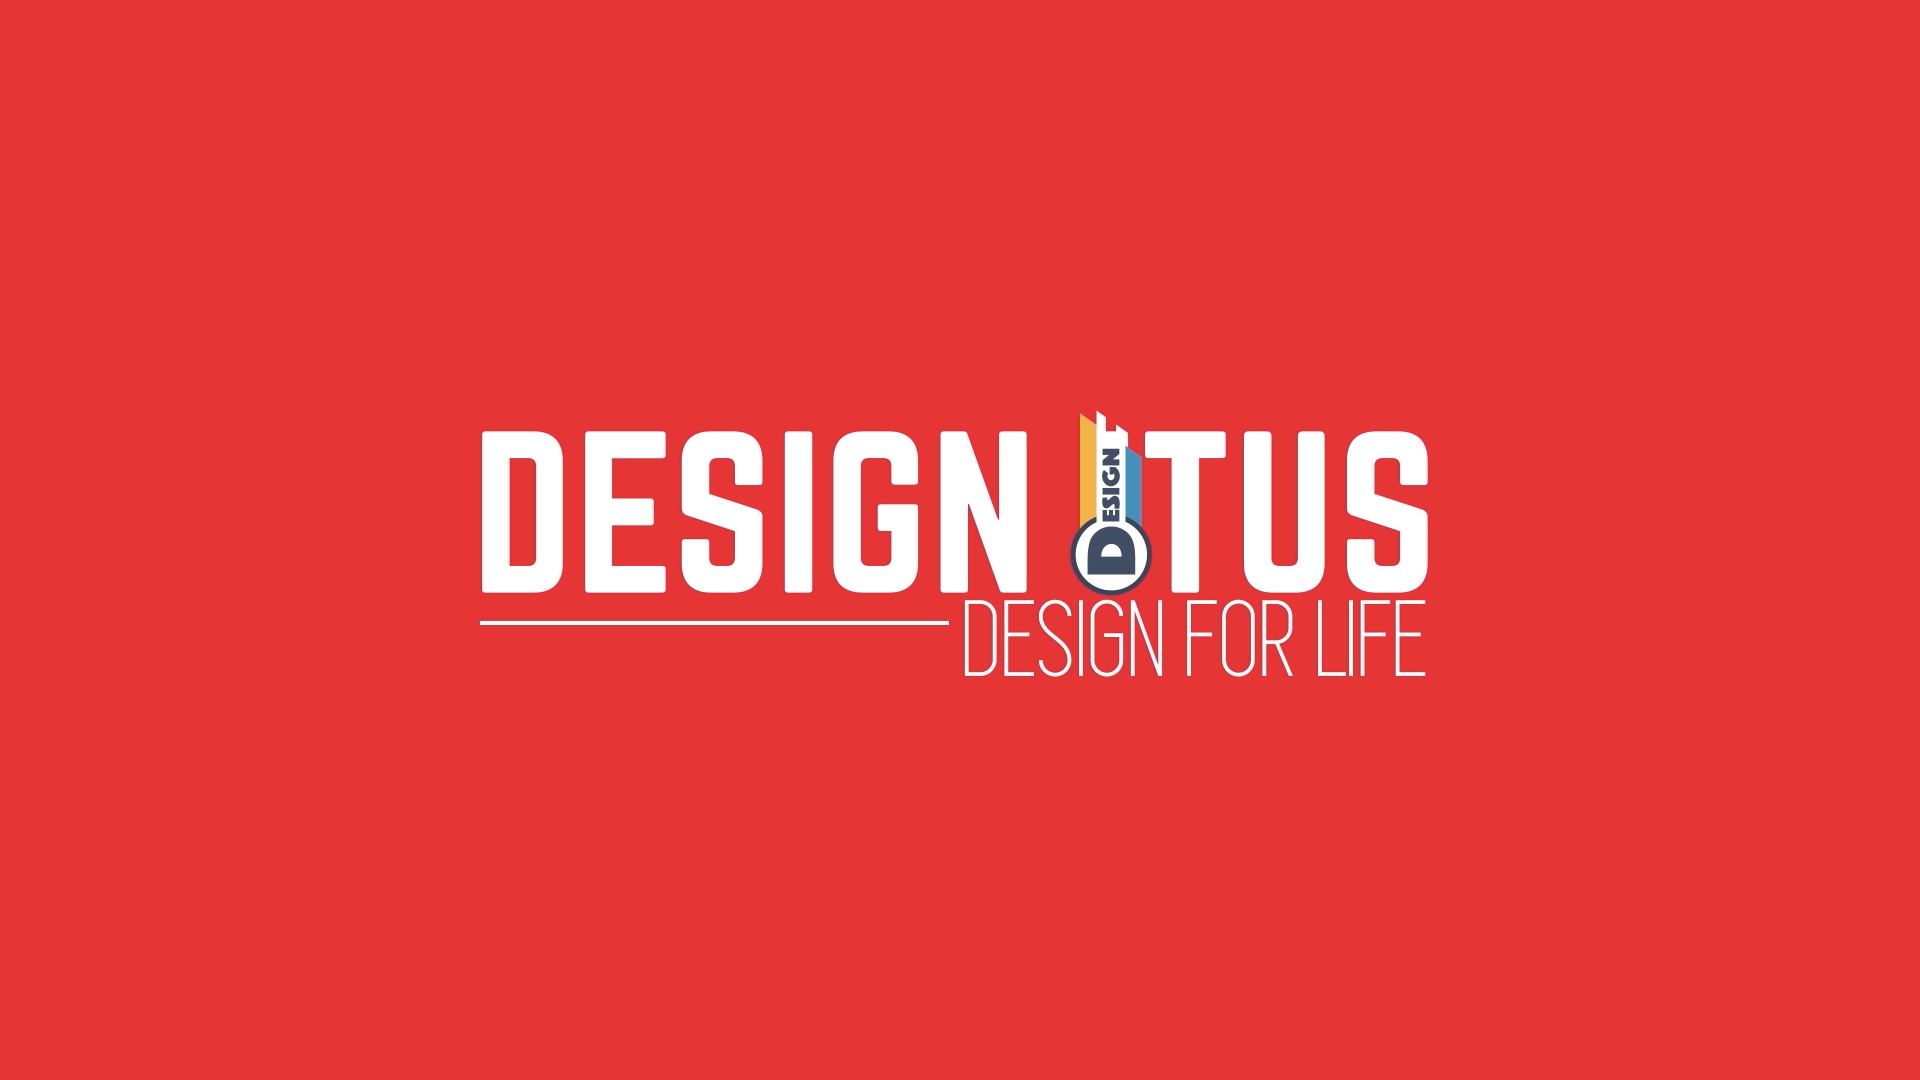
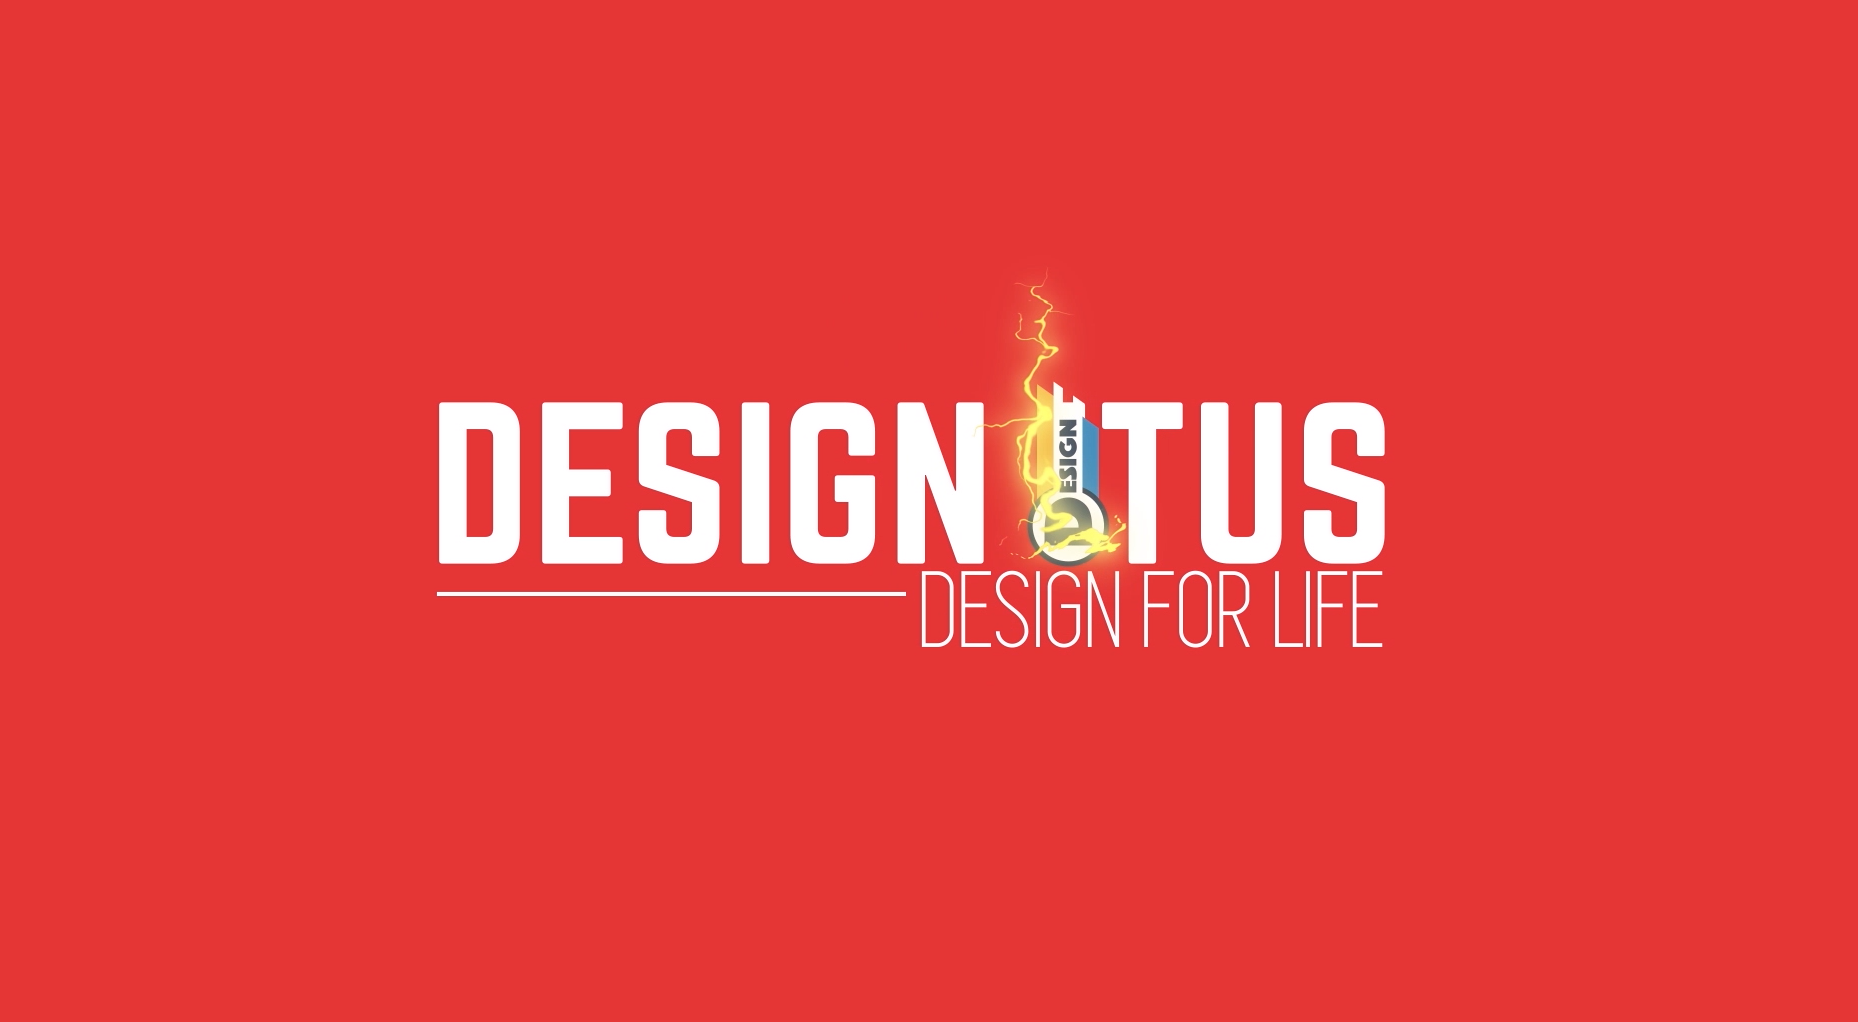
Update

Changed region(s): [[0.2185, 0.273, 0.7492, 0.637]]

diff --git a/index.html b/index.html
@@ -57,7 +57,7 @@
             <div class="t3d">
                 <!-- The header rectangle -->
                 <div class="header-rectangle">
-                    <img src="assets/VideoPreview.png" width="100%">
+                    <img src="assets/VideoPreview.gif" width="100%">
                 </div>
                 <!-- Header -->
                 <div class="row" style="padding-top: 100px;">
@@ -69,8 +69,8 @@
                             <div class="big-title" style="float: left;">DRUG</div>
                             <div class="big-title" style="color: var(--theme-color-2);">.</div>
                         </div><br>
-                        <div class="sub-title">CROP YOUR BRAIN AND</div>
-                        <div class="sub-title">MAKE IT MORE BEAUTIFUL</div>
+                        <div class="sub-title" style="letter-spacing: 6.0;">CROP YOUR BRAIN AND</div>
+                        <div class="sub-title" style="letter-spacing: 4.3;">MAKE IT MORE BEAUTIFUL</div>
                     </div>
 
                     <div class="col-2 t3d-quick">
@@ -180,7 +180,7 @@
                     <!-- Products -->
                     <div class="col-6" data-aos="fade-right" data-aos-duration="1300">
                         <div
-                            style="height: var(--section-height); max-width: 100%; background-color: rgb(214, 214, 214);">
+                            style="height: var(--section-height); max-height: 100%; background-color: rgb(214, 214, 214);">
                         </div>
                     </div>
                     <!-- Text -->
@@ -220,12 +220,92 @@
                 </div>
             </div>
 
-            <div style="height: 1000px;"></div>
-
         </div>
         <div class="col-2" style="color: transparent;">.</div>
     </div>
 
+    <div style="height: 100px; width: 100%; margin-top: var(--section-margin); background-color: rgb(44, 44, 44);">
+        <div class="row">
+            <div class="col-3">.</div>
+            <div class="col-6" style="color: white;">DESIGN ITUS</div>
+            <div class="col-3">.</div>
+        </div>
+    </div>
+
 </body>
+
+<!-- ---------------------- Back to top ---------------------- -->
+<script src="https://ajax.googleapis.com/ajax/libs/jquery/3.3.1/jquery.min.js"> </script>
+<script type="text/javascript">
+    var scrolltotop = {
+        setting: {
+            startline: 100,
+            scrollto: 0,
+            scrollduration: 1e3,
+            fadeduration: [500, 100]
+        },
+        controlHTML: '<div style="font-size: x-large; color: grey;">&Uarr;</div>',
+        controlattrs: {
+            offsetx: 20,
+            offsety: 20
+        },
+        anchorkeyword: "#top",
+        state: {
+            isvisible: !1,
+            shouldvisible: !1
+        },
+        scrollup: function () {
+            this.cssfixedsupport || this.$control.css({
+                opacity: 0
+            });
+            var t = isNaN(this.setting.scrollto) ? this.setting.scrollto : parseInt(this.setting.scrollto);
+            t = "string" == typeof t && 1 == jQuery("#" + t).length ? jQuery("#" + t).offset().top : 0, this.$body.animate({
+                scrollTop: t
+            }, this.setting.scrollduration)
+        },
+        keepfixed: function () {
+            var t = jQuery(window),
+                o = t.scrollLeft() + t.width() - this.$control.width() - this.controlattrs.offsetx,
+                s = t.scrollTop() + t.height() - this.$control.height() - this.controlattrs.offsety;
+            this.$control.css({
+                left: o + "px",
+                top: s + "px"
+            })
+        },
+        togglecontrol: function () {
+            var t = jQuery(window).scrollTop();
+            this.cssfixedsupport || this.keepfixed(), this.state.shouldvisible = t >= this.setting.startline ? !0 : !1, this.state.shouldvisible && !this.state.isvisible ? (this.$control.stop().animate({
+                opacity: 1
+            }, this.setting.fadeduration[0]), this.state.isvisible = !0) : 0 == this.state.shouldvisible && this.state.isvisible && (this.$control.stop().animate({
+                opacity: 0
+            }, this.setting.fadeduration[1]), this.state.isvisible = !1)
+        },
+        init: function () {
+            jQuery(document).ready(function (t) {
+                var o = scrolltotop,
+                    s = document.all;
+                o.cssfixedsupport = !s || s && "CSS1Compat" == document.compatMode && window.XMLHttpRequest, o.$body = t(window.opera ? "CSS1Compat" == document.compatMode ? "html" : "body" : "html,body"), o.$control = t('<div id="topcontrol">' + o.controlHTML + "</div>").css({
+                    position: o.cssfixedsupport ? "fixed" : "absolute",
+                    bottom: o.controlattrs.offsety,
+                    right: o.controlattrs.offsetx,
+                    opacity: 0,
+                    cursor: "pointer"
+                }).attr({
+                    title: "Scroll to Top"
+                }).click(function () {
+                    return o.scrollup(), !1
+                }).appendTo("body"), document.all && !window.XMLHttpRequest && "" != o.$control.text() && o.$control.css({
+                    width: o.$control.width()
+                }), o.togglecontrol(), t('a[href="' + o.anchorkeyword + '"]').click(function () {
+                    return o.scrollup(), !1
+                }), t(window).bind("scroll resize", function (t) {
+                    o.togglecontrol()
+                })
+            })
+        }
+    };
+    scrolltotop.init(); 
+</script>
+<!-- ---------------------- /Back to top ---------------------- -->
 
 </html>

diff --git a/styles.css b/styles.css
@@ -21,6 +21,8 @@
 
 body {
     background-color: var(--background-color);
+    padding: 0px;
+    margin: 0px;
 }
 
 /* p {
@@ -51,7 +53,6 @@ a:hover {
 .sub-title {
     font-size: 12px;
     font-weight: 300;
-    letter-spacing: 5.0;
     line-height: 1.6;
 }
 .sub-title-2 {
@@ -85,9 +86,11 @@ a:hover {
   position: absolute;
   z-index: -1;
   right: 0%; 
-  height: 60vh; 
-  width: 50vw; 
+  /* height: 60vh;  */
+  width: 52vw; 
   background-color: rgb(224, 224, 224);
+  border-radius: 10px;
+  overflow: hidden;
 }
 @media only screen and (max-width: 768px) {
   .header-rectangle {display: none;}
@@ -95,10 +98,10 @@ a:hover {
 
 .t3d {
   transform: perspective(0px) translateZ(0px) rotateX(0deg) rotateY(0deg) ;
-  transition: all 3s ease;
+  transition: all 4s ease;
 }
 .t3d:hover {
-  transform: perspective(1000px) translateZ(50px) rotateX(0deg) rotateY(0deg);
+  transform: perspective(1000px) translateZ(60px) rotateX(0deg) rotateY(0deg);
 }
 
 .t3d-quick {

diff --git a/scripts.js b/scripts.js
@@ -36,3 +36,10 @@ $(window).scroll(function () {
         $(".graphic-design").removeClass("effect")
     }
 });
+
+
+
+
+
+
+
